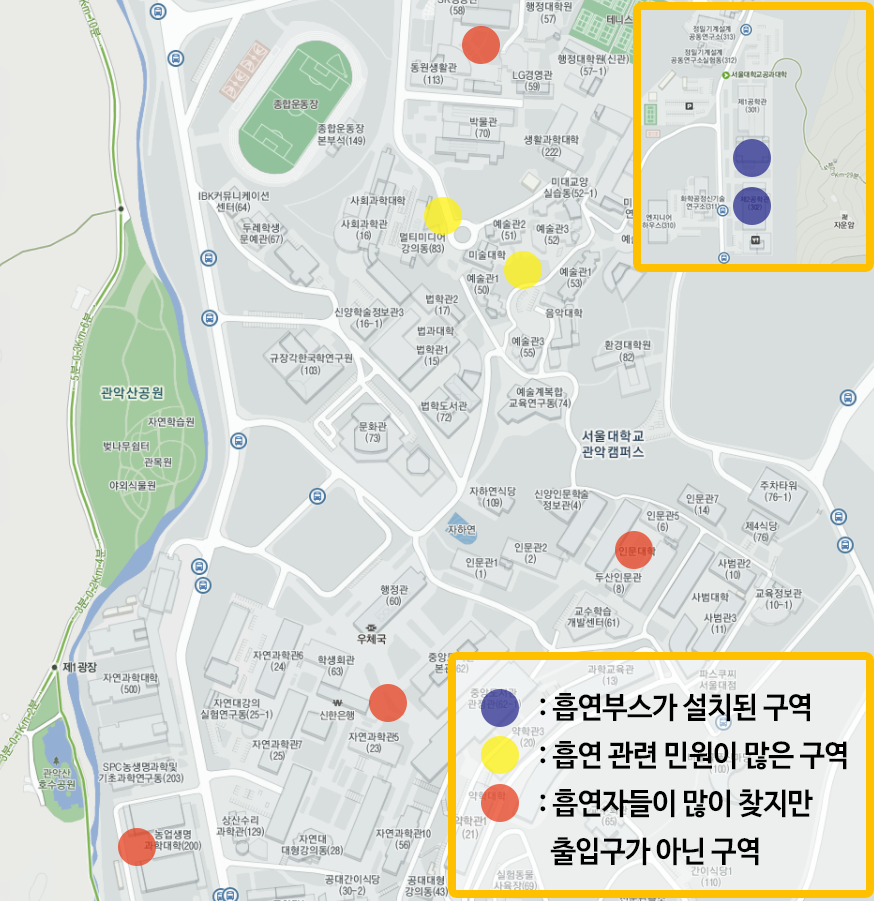
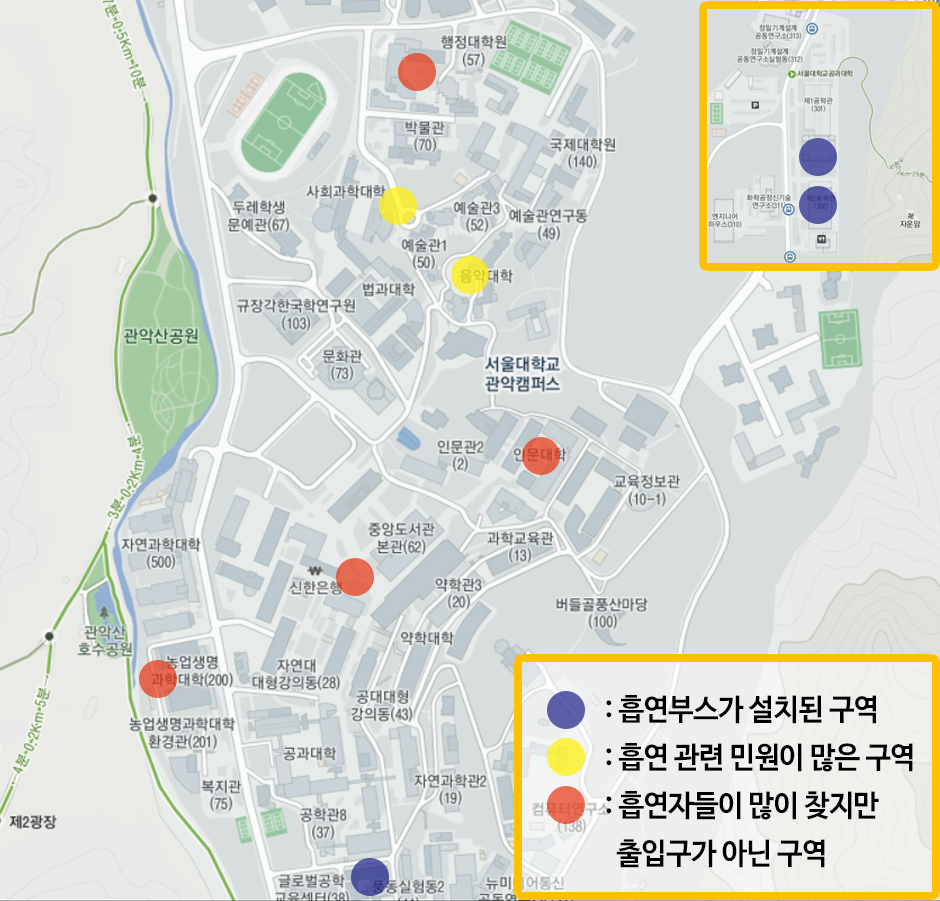
수치하나가 잘못되어서 정정합니다ㅠㅠㅜ

diff --git a/factcheck/p2-14.html b/factcheck/p2-14.html
@@ -40,7 +40,7 @@
         <div class="row">
           <div class="col-md-12">
             <p>
-              서울대학교 관악캠퍼스 내의 흡연자들과 비흡연자들 간의 갈등은 이미 오래된 문제이다. 대학신문, 서울대저널에서도 흡연공간 문제를 다루어 왔으며, 최근까지도 페이스북 ‘서울대학교 대나무숲’ 페이지에는 비흡연자들의 불만으로 가득찬 제보들이 쏟아졌다. 이들은 많은 흡연자들이 건물 출입구에서 흡연하는 점을 문제 삼으며 지정된 흡연구역에서 흡연을 하기를 요구한다. 그러나 흡연자들의 경우 출입구는 금연구역이 아니며 교내에는 공식적인 흡연구역이 따로 없어서 흡연을 할 곳이 없다고 반박한다. 그렇다면 정말 서울대에는 별도로 마련된 흡연구역이 존재하지 않는 걸까?
+              서울대학교 관악캠퍼스 내의 흡연자들과 비흡연자들 간의 갈등은 이미 오래된 문제이다. 대학신문, 서울대저널에서도 꾸준히 학내 흡연 문제를 다루어 왔으며, 최근까지도 페이스북 ‘서울대학교 대나무숲’ 페이지에는 비흡연자들의 불만으로 가득찬 제보들이 쏟아졌다. 이들은 많은 흡연자들이 건물 출입구와 같이 유동인구가 많은 곳에서 흡연하는 점을 문제 삼으며 지정된 흡연구역에서 흡연을 하기를 요구한다. 그러나 흡연자들의 경우 출입구는 금연구역이 아니며 교내에는 공식적인 흡연구역이 따로 없어서 흡연을 할 곳이 없다고 반박한다. <strong>그렇다면 정말 서울대에는 별도로 마련된 흡연구역이 존재하지 않는 걸까?</strong>
             </p>
 
 
@@ -70,7 +70,7 @@
             </div>
             </div>
             <p>
-              결국 본부는 단속 권한이 없기 때문에 흡연구역과 금연구역을 따로 지정할 수 없다는 입장이었다. 실제로 지방자치단체의 조례에 의해 정해진 금연구역은 과태료를 부과하는 등 법적인 제재가 이루어질 수 있는 금연구역이다. 그러나 보건복지부에서 발행한 「2017년 금연구역 지정•관리 업무 지침」에 따르면 시설의 소유주 역시 단속 권한은 없지만 해당 시설을 금연구역으로 설정하고 관리하거나 이용자들의 요청에 따라 흡연부스를 설치할 수 있는 권한을 가지고 있다. 본부는 이러한 내용에 대해서는 알지 못하였으며, ‘출입구 근처 10m 이상에서는 금연’이라는 내용 역시 교사 전체가 아닌 ｢도서관법｣에 따른 도서관 등 일부 시설에만 해당된다는 사실을 모르고 있었다. 결과적으로 학교는 교내 흡연구역 및 금연구역에 대해 큰 관심을 갖고 있지 않는 듯 했으며, <u>본부에서 별도로 지정한 흡연구역 역시 존재하지 않았다.</u>
+              결국 본부는 단속 권한이 없기 때문에 흡연구역과 금연구역을 따로 지정할 수 없다는 입장이었다. 실제로 지방자치단체의 조례에 의해 정해진 금연구역은 과태료를 부과하는 등 법적인 제재가 이루어질 수 있는 금연구역이다. 그러나 보건복지부에서 발행한 「2017년 금연구역 지정•관리 업무 지침」에 따르면 시설의 소유주 역시 단속 권한은 없지만 해당 시설을 금연구역으로 설정하고 관리하거나 이용자들의 요청에 따라 흡연부스를 설치할 수 있는 권한을 가지고 있다. 본부는 이러한 내용에 대해서는 알지 못하였으며, ‘출입구 근처 10m 이상에서는 금연’이라는 내용 역시 교사 전체가 아닌 ｢도서관법｣에 따른 도서관 등 일부 시설에만 해당된다는 사실을 모르고 있었다. 결과적으로 학교는 교내 흡연구역 및 금연구역에 대해 큰 관심을 갖고 있지 않는 듯 했으며, 당연히 <u>본부에서 별도로 지정한 흡연구역 역시 존재하지 않았다.</u>
             </p>
           </div>
           </div>
@@ -93,7 +93,7 @@
               대학신문의 2016년 4월 3월 자 <a class="link" href="http://www.snunews.com/news/articleView.html?idxno=15803">기사</a>에 따르면 당시 제58대 ‘디테일’ 총학생회는 흡연부스 설치와 관련된 논의를 진행하였다. 이에 최근 총학생회의 흡연부스 관련 활동을 살펴보니 올해 10월 16일 자 총운영위원회 결과지에는 교육환경개선협의회 요구안 중 하나로 ‘흡연부스 신설’이 기록되어 있었고, 제59대 ‘U’ 총학생회에 문의해본 결과 해당 사업은 제60대 ‘파랑’ 총학생회로 인수인계된 것으로 밝혀졌다. 결국 아직 총학생회의 흡연부스 사업은 실질적인 단계에 접어 들지 못한 것으로 보였다.
             </p>
             <p>
-              그런데 지난 10월 27일, 제30대 공과대학 학생회 ‘공존’은 지속적으로 제기되어왔던 301동 휴게시설에서의 간접흡연 문제를 해결하기 위해 행정실의 지원을 받아 301동 1층 외부공간에 흡연부스를 설치하였다. 이후 추가적으로 302동에도 설치를 진행하여 현재 공과대학 내에는 총 2개의 흡연부스가 구비되어 있다. 결과적으로 서울대학교 관악캠퍼스 내에는 <u>총 2개의 흡연부스가 존재하는 것으로 밝혀졌다.</u>
+              그런데 지난 10월 27일, 제30대 공과대학 학생회 ‘공존’은 지속적으로 제기되어왔던 301동 휴게시설에서의 간접흡연 문제를 해결하기 위해 행정실의 지원을 받아 301동 1층 외부공간에 흡연부스를 설치하였다. 이후 추가적으로 302동과 39동에도 설치를 진행하여 현재 공과대학 내에는 총 3개의 흡연부스가 구비되어 있다. 결과적으로 서울대학교 관악캠퍼스 내에는 <u>총 3개의 흡연부스가 존재하는 것으로 밝혀졌다.</u>
             </p>
           </div>
           </div>
@@ -106,20 +106,20 @@
           <div class="col-md-12">
             <h3 class="title">서울대학교에는 지정된 흡연구역이 존재한다. 그러나...</h3>
             <p>
-              서울대학교 관악캠퍼스에는 별도로 지정된 실외 흡연구역이 존재하지는 않으나 별도로 설치된 흡연부스는 총 2대가 구비되어 있다. 따라서 ‘서울대학교에는 지정된 흡연구역이 존재한다’는 명제는 ‘사실’이다. 그러나 해당 명제는 두 가지 근거에 의해 ‘사실’이 아닌 ‘대체로 사실’에 가깝다고 할 수 있다.
+              서울대학교 관악캠퍼스에는 별도로 지정된 실외 흡연구역이 존재하지는 않으나 별도로 설치된 흡연부스는 총 3대가 구비되어 있다. 따라서 서울대학교에는 지정된 흡연구역이 존재한다. 그러나 이는 두 가지 근거에 의해 완벽한 ‘사실’이 아닌 ‘대체로 사실’에 가깝다고 볼 수 있다.
             </p>
             <p>
-              먼저 현재 교내에 존재하는 흡연부스는 단 두 곳이며, 이 두 부스 모두 공대 학생회가 공대학생들의 수요를 바탕으로 설치하였다. 따라서 소위 ‘윗공대’라 불리는 301동과 302동에 위치한 흡연부스들은 타 단과대생들의 경우 접근하기 매우 힘들다. 또한 흡연부스가 설치된 시점은 10월 27일로 아직 교내 재학생들 중 설치 사실조차 모르는 학생들이 매우 많다.
+              먼저 현재 교내에 존재하는 흡연부스는 세 곳이나, 이 세 부스 모두 공대 학생회가 공대학생들의 수요를 바탕으로 설치하였다. 특히 소위 ‘윗공대’라 불리는 301동과 302동에 위치한 흡연부스들은 타 단과대생들의 경우 접근하기 매우 힘들다. 또한 흡연부스가 설치된 시점은 10월 27일로 아직 교내 재학생들 중 설치 사실조차 모르는 학생들이 매우 많다.
             </p>
             <p>
-              두번째로는 타 학교에 비해 터무니없이 적은 흡연구역의 수이다. 고려대학교의 경우 총 건물 86채 중 2곳에 흡연부스가 존재하며 현재 추가적으로 10개의 흡연부스가 설치를 앞두고 있다. 또한 중앙대의 경우 34채 중 흡연부스와 개방형 흡연구역을 포함해 총 15곳이, 한양대의 경우 89채 중 24곳이 흡연구역으로 지정되어있다. 서울대학교 관악캠퍼스의 경우 건물 수는 총 226채로 타 학교에 비해 압도적으로 많으나 흡연부스는 단 두개이다.
+              두번째로는 타 학교에 비해 터무니없이 적은 흡연구역의 수이다. 고려대학교의 경우 총 건물 86채 중 2곳에 흡연부스가 존재하며 현재 추가적으로 10개의 흡연부스가 설치를 앞두고 있다. 또한 중앙대의 경우 34채 중 흡연부스와 개방형 흡연구역을 포함해 총 15곳이, 한양대의 경우 89채 중 24곳이 흡연구역으로 지정되어있다. 서울대학교 관악캠퍼스의 경우 건물 수는 총 226채로 타 학교에 비해 압도적으로 많으나 흡연부스는 단 세 개이다.
             </p>
           </div>
           </div>
 
           <div class="row">
           <div class="col-lg-12">
-            <div class='tableauPlaceholder' id='viz1514231546655' style='position: relative'><noscript><a href='#'><img alt='총 건물 수 대비 흡연구역 수 ' src='https:&#47;&#47;public.tableau.com&#47;static&#47;images&#47;_1&#47;_17859&#47;1&#47;1_rss.png' style='border: none' /></a></noscript><object class='tableauViz'  style='display:none;'><param name='host_url' value='https%3A%2F%2Fpublic.tableau.com%2F' /> <param name='embed_code_version' value='3' /> <param name='site_root' value='' /><param name='name' value='_17859&#47;1' /><param name='tabs' value='no' /><param name='toolbar' value='no' /><param name='static_image' value='https:&#47;&#47;public.tableau.com&#47;static&#47;images&#47;_1&#47;_17859&#47;1&#47;1.png' /> <param name='animate_transition' value='yes' /><param name='display_static_image' value='yes' /><param name='display_spinner' value='yes' /><param name='display_overlay' value='yes' /><param name='display_count' value='yes' /><param name='filter' value='publish=yes' /></object></div>                <script type='text/javascript'>                    var divElement = document.getElementById('viz1514231546655');                    var vizElement = divElement.getElementsByTagName('object')[0];                    vizElement.style.width='1100px';vizElement.style.height='500px';                    var scriptElement = document.createElement('script');                    scriptElement.src = 'https://public.tableau.com/javascripts/api/viz_v1.js';                    vizElement.parentNode.insertBefore(scriptElement, vizElement);                </script>
+            <div class='tableauPlaceholder' id='viz1514247850986' style='position: relative'><noscript><a href='#'><img alt='총 건물 수 대비 흡연구역 수 ' src='https:&#47;&#47;public.tableau.com&#47;static&#47;images&#47;__&#47;_______&#47;1&#47;1_rss.png' style='border: none' /></a></noscript><object class='tableauViz'  style='display:none;'><param name='host_url' value='https%3A%2F%2Fpublic.tableau.com%2F' /> <param name='embed_code_version' value='3' /> <param name='site_root' value='' /><param name='name' value='_______&#47;1' /><param name='tabs' value='no' /><param name='toolbar' value='yes' /><param name='static_image' value='https:&#47;&#47;public.tableau.com&#47;static&#47;images&#47;__&#47;_______&#47;1&#47;1.png' /> <param name='animate_transition' value='yes' /><param name='display_static_image' value='yes' /><param name='display_spinner' value='yes' /><param name='display_overlay' value='yes' /><param name='display_count' value='yes' /><param name='filter' value='publish=yes' /></object></div>                <script type='text/javascript'>                    var divElement = document.getElementById('viz1514247850986');                    var vizElement = divElement.getElementsByTagName('object')[0];                    vizElement.style.width='100%';vizElement.style.height=(divElement.offsetWidth*0.4)+'px';                    var scriptElement = document.createElement('script');                    scriptElement.src = 'https://public.tableau.com/javascripts/api/viz_v1.js';                    vizElement.parentNode.insertBefore(scriptElement, vizElement);                </script>
           </div>
           </div>
 
@@ -132,7 +132,7 @@
           <div class="col-md-12">
             <h3 class="title">흡연자와 비흡연자 모두를 위한 '흡연구역'</h3>
             <p>
-              교내 흡연구역에 대한 가이드라인이 필요하지 않는가 하는 질문에 장학복지과는 단속의 어려움을 근거로 두 구역을 구분하는 것이 의미가 없으며, 흡연부스를 설치하는 것은 오히려 학생들의 흡연을 장려하는 행위이기 때문에 복지과의 업무는 될 수 없다고 밝혔다. 그러나 최소한의 규정도 없는 상황에서 학생들이 원하는 것은 철저한 단속이 아니라 <u>공식적인 흡연구역을 조성해주는 것</u>이다. 지정된 흡연구역이 생기면 흡연자들에게는 맘 놓고 흡연할 공간이 형성되며 비흡연자들은 보행 중 담배연기를 마실 가능성이 적어지게 되기 때문이다.
+              교내 흡연구역에 대한 가이드라인이 필요하지 않는가 하는 질문에 장학복지과는 단속의 어려움을 근거로 두 구역을 구분하는 것이 의미가 없으며, 흡연부스를 설치하는 것은 오히려 학생들의 흡연을 장려하는 행위이기 때문에 복지과의 업무가 아니라고 밝혔다. 그러나 최소한의 규정도 없는 상황에서 학생들이 원하는 것은 철저한 단속이 아니라 <u>공식적인 흡연구역을 조성해주는 것</u>이다. 지정된 흡연구역이 생기면 흡연자들에게는 맘 놓고 흡연할 공간이 형성되며 비흡연자들은 보행 중 담배연기를 마실 가능성이 적어지게 되기 때문이다.
             </p>
             <p>
               실제로 공대와 고려대의 경우 흡연부스 설치 이후 오히려 눈치보지 않고 편히 흡연할 수 있게 되었다는 흡연자의 긍정적인 피드백이 있었다. 또한 중앙대는 흡연부스뿐만 아니라 개방형 흡연구역 역시 지정하여 학생들의 지지를 얻고 있다. 물론 아직 흡연부스는 환기가 잘 되지 않거나 개방형 흡연구역이 유동인구가 많은 지점과 가까울 경우 담배냄새가 잘 퍼진다는 한계점 등 극복할 점이 많지만, 그 과도기를 지날수록 점점 흡연권과 혐연권은 양립 가능한 개념이 될 것이다.
@@ -142,10 +142,10 @@
             </div>
             <div class="col-lg-6">
             <p>
-              결국 본부 차원에서는 적극적으로 학생사회에서 제기되는 불만을 해결할 자세를 보여야하는 것이 핵심이다. 그 일환으로 각 단과대에는 출입구에서의 흡연을 통제하도록 하는 권고문을 보내는 등 최소한의 가이드라인을 제시하며, 현재 학생들이 많이 흡연하는 구역 중 적절한 곳을 흡연구역으로 지정하는 노력을 할 필요성이 있다. 그 예로 많은 학생들이 찾는 관정관과 학생회관 사이의 비공식적인 흡연소에는 칸막이나 벽이 높은 개방형 흡연부스를 설치함으로써 간접흡연 피해는 줄이고 흡연시설은 개선하는 효과를 얻을 수 있다. 또한 앞서 언급했듯, 대부분의 학생들은 촉박한 쉬는 시간을 이용하기 위해 대부분 강의실 건물의 출입구에서 흡연을 하고 있다. 이에 본부는 유동인구가 많은 지점, 혹은 학생들이 자주 흡연을 하는 건물 출입구 위치를 파악하여 개방형 흡연구역이나 흡연부스를 설치하는 방안을 적극적으로 검토해보아야 할 것이다.
+              결국 <strong>본부</strong> 차원에서는 적극적으로 학생사회에서 제기되는 불만을 해결할 자세를 보여야하는 것이 핵심이다. 그 일환으로 각 단과대에는 출입구에서의 흡연을 통제하도록 하는 권고문을 보내는 등 최소한의 가이드라인을 제시하며, 현재 학생들이 많이 흡연하는 구역 중 적절한 곳을 흡연구역으로 지정하는 노력을 할 필요성이 있다. 그 예로 많은 학생들이 찾는 관정관과 학생회관 사이의 비공식적인 흡연소에는 칸막이나 벽이 높은 개방형 흡연부스를 설치함으로써 간접흡연 피해는 줄이고 흡연시설은 개선하는 효과를 얻을 수 있다. 또한 앞서 언급했듯, 많은 학생들이 촉박한 쉬는 시간을 효과적으로 이용하기 위해 대부분 강의실 건물의 출입구에서 흡연을 하고 있다. 이에 본부는 유동인구가 많은 지점, 혹은 학생들이 자주 흡연을 하는 건물 출입구 위치를 파악하여 개방형 흡연구역이나 흡연부스를 설치하는 방안을 적극적으로 검토해보아야 할 것이다.
             </p>
             <p>
-              총학생회의 경우도 더욱 적극적으로 관련 사업을 추진할 필요성이 보인다. 2016년 58대 총학생회가 추진하던 사업은 그 다음 학생회의 사업으로 넘어갔으며, 이 또한 별다른 진척없이 다음 학생회로 인수인계되었다. 그 사이 공과대학 학생회는 단대 차원에서 흡연부스를 설치하였으나, 이는 공대학생들만이 이용할 수 있는 시설일 뿐 관악캠퍼스를 이용하는 모든 학생들이 찾을 수 있는 흡연공간이라고 할 수 없다. 이제는 흡연구역 사업이 제60대 총학생회로 넘어가는 시점에서 총학 역시 본부와의 협력을 통해 조금은 더 학생들의 요구에 빠르게 답하기를 기대한다.
+              <strong>총학생회</strong>의 경우도 더욱 적극적으로 관련 사업을 추진할 필요성이 보인다. 2016년 58대 총학생회가 추진하던 사업은 그 다음 학생회의 사업으로 넘어갔으며, 이 또한 별다른 진척없이 다음 학생회로 인수인계되었다. 그 사이 공과대학 학생회는 단대 차원에서 흡연부스를 설치하였으나, 이는 공대학생들만이 이용할 수 있는 시설일 뿐 관악캠퍼스를 이용하는 모든 학생들이 찾을 수 있는 흡연공간이라고 할 수 없다. 이제는 흡연구역 사업이 제60대 총학생회로 넘어가는 시점에서 총학 역시 본부와의 협력을 통해 조금은 더 학생들의 요구에 빠르게 답하기를 기대한다.
             </p>
             </div>
           </div>
